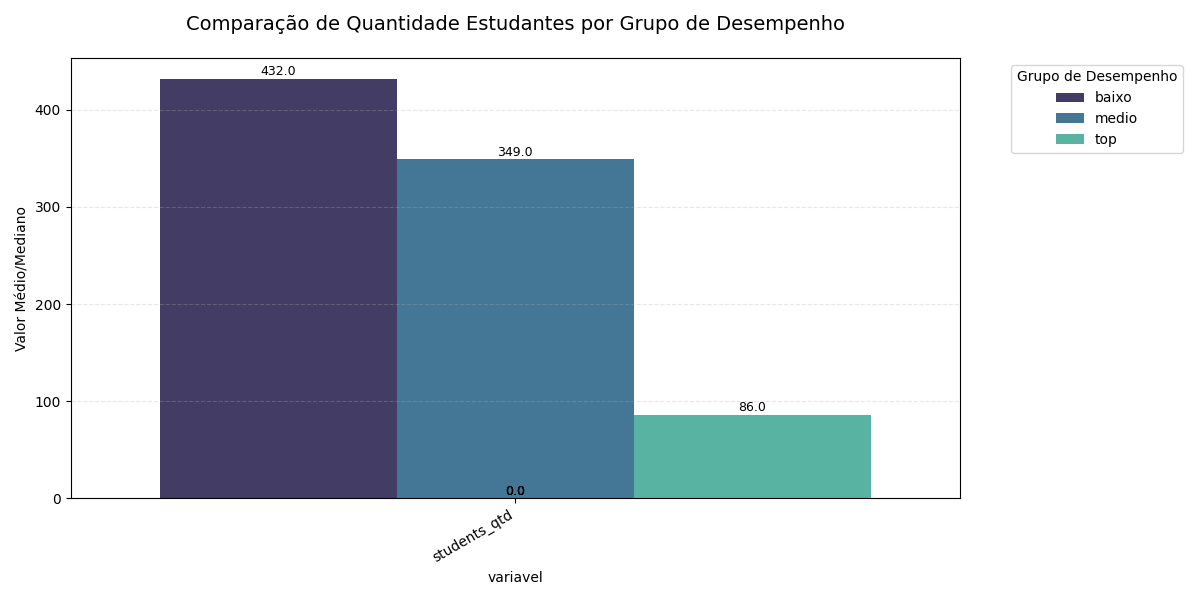
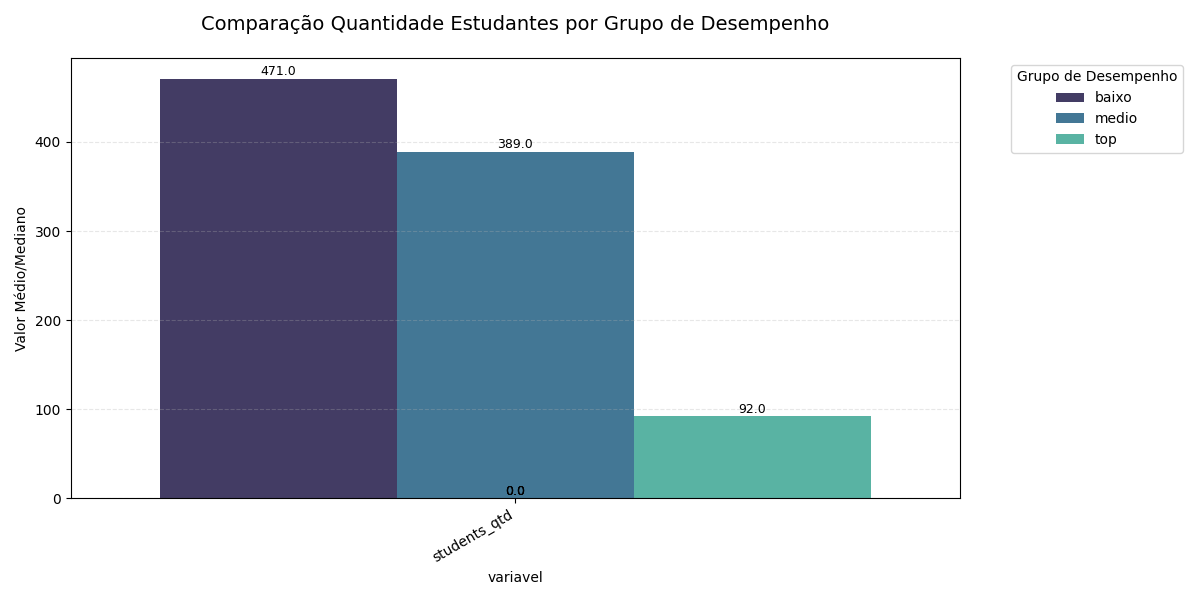
Atualizando a main com funções e gerando gráficos

diff --git a/main.py b/main.py
@@ -1,4 +1,3 @@
-
 import bib.processamento as p
 import bib.visualizacao as v
 import pandas as pd
@@ -33,16 +32,55 @@ if dados is not None:
 
     print(f"\nTIPOS DE DADOS:\n{dados.dtypes}")
 
+    # gráficos de barras: mude o 'group_column' para a coluna que deseja analisar e modifique o título
+    v.plot_bar_chart( 
+    dados,
+    group_column="age",
+    #encoder=encoders[""],  # coloque apenas para os dados categóricos, deixe comentado caso o group_column não seja um dado categórico
+    # colors=["red", "blue", "purple"], # define as cores de acordo com a quantidade de colunas, caso contrário as cores serão aleatórias
+    title="Estudante x Idade"
+    )
+
+    # histogramas: mude 'group_column' para a coluna que deseja analisar e modifique o título
+    v.plot_histogram(dados, column="exam_score", title="Nota Exame") 
+
+    # gráficos de pizza: mude o 'group_column' para a coluna que deseja analisar e modifique o título
+    v.plot_pie(
+        data=dados,
+        column="part_time_job",
+        encoder_dict=encoders, # coloque apenas para os dados categóricos, deixe comentado caso o group_column não seja um dado categórico
+        title="Trabalha Meio Período", 
+        colors=["red","blue"] # define as cores de acordo com a quantidade de valores
+    )
+
+    # gráficos de correlação: mude o eixos de acordo com as colunas que deseja analisar a correlação e modifique o título
+    v.plot_scatter(
+        dados, 
+        x_col="exam_score", # eixo x
+        y_col="extracurricular_participation", # eixo y
+        title="Correlacao Atividades Extracurriculares"
+    )
+
+    # gráficos de boxplot: mude o eixos de acordo com as colunas que deseja analisar e modifique o título
+    v.plot_boxplot(
+        data=dados,
+        x_col="extracurricular_participation", # eixo x
+        y_col="exam_score",                    #eixo y
+        title="Participação Extracurricular", # coloque apenas para os dados categóricos, deixe comentado caso o group_column não seja um dado categórico
+        encoder=encoders["extracurricular_participation"]
+    )
+
+    # Dividindo os estudantes em grupos
     bins = [0, 69, 89, 100] 
-    labels = ['baixo', 'medio', 'top']
+    labels = ['baixo', 'medio', 'top'] # Grupos de Desempenho
 
     dados['grupo_desempenho'] = pd.cut(
         dados['exam_score'],
         bins=bins,
         labels=labels,
         right=False
-    )
-    comparacao = dados.groupby('grupo_desempenho').agg(
+    ) 
+    comparacao = dados.groupby('grupo_desempenho').agg( # agrupando os grupos, para cada varriável, usando a média ou mediana
         exam_score_mean=('exam_score', 'mean'),
         students_qtd=('exam_score', 'count'),
         study_hours_per_day_mean=('study_hours_per_day', 'mean'),
@@ -57,43 +95,11 @@ if dados is not None:
 
     v.plot_comparativo_grupos(
         comparacao=comparacao,
-        variaveis=['sleep_hours_mean'],
-        title="Comparação de Hora de Sono por Grupo de Desempenho",
+        variaveis=['exam_score_mean'],  # mude aqui a variável que deseja comparar com o Grupo de Desempenho
+        title="Comparação Nota por Grupo de Desempenho",
         palette="mako", 
         rotacao_x=30
     )
-    v.plot_bar_chart(
-    dados,
-    group_column="gender",
-    encoder=encoders["gender"],
-    colors=["red", "blue", "purple"],
-    title="Estudante x Gênero"
-    )
-   
-    # v.plot_histogram(dados, column="exam_score", title="Nota Exame")
-
-    # v.plot_pie(
-    #     data=dados,
-    #     column="internet_quality",
-    #     encoder_dict=encoders,
-    #     title="Qualidade da Internet",
-    #     colors=["blue","green","red"]
-    # )
-
-    # v.plot_scatter(
-    # dados, 
-    # "exam_score", 
-    # "extracurricular_participation",
-    # title="Horas de Estudo vs "
-    # )
-
-    # v.plot_boxplot(
-    #     data=dados,
-    #     x_col="extracurricular_participation",
-    #     y_col="exam_score",
-    #     title="Participação Extracurricular",
-    #     encoder=encoders["extracurricular_participation"]
-    # )
 
     media_geral = dados_transformados['exam_score'].mean()
 
@@ -191,31 +197,6 @@ if dados is not None:
     title="Estudante x Gênero"
     )
    
-    v.plot_histogram(dados, column="sleep_hours", title="Horas de Sono")
-
-    v.plot_pie(
-        data=dados,
-        column="diet_quality",
-        encoder_dict=encoders,
-        title="Qualidade da Dieta",
-        colors=["blue","green","red"]
-    )
-
-    v.plot_scatter(
-    dados, 
-    "study_hours_per_day", 
-    "exam_score",
-    title="Notas vs Horas de Estudo"
-    )
-
-    v.plot_boxplot(
-        data=dados,
-        x_col="parental_education_level",
-        y_col="exam_score",
-        title="Notas por Nível Educacional dos Pais",
-        encoder=encoders["parental_education_level"]
-    )
-
     v.plotar_grafico_barras_linha_genero(media_por_genero, media_geral)
 
     v.plotar_grafico_linha_frequencia(media_por_attendance, media_geral)

diff --git a/bib/visualizacao.py b/bib/visualizacao.py
@@ -254,47 +254,30 @@ def plot_comparativo_grupos(
     plt.show()
 
 def plotar_grafico_barras_linha_genero(media_por_genero, media_geral):
-    # Criação do Gráfico com Barras e Linha
     plt.figure(figsize=(10, 6))
 
-    # Criando o gráfico de barras para as médias por gênero
-    # Usamos apenas as 3 primeiras linhas do DataFrame media_por_genero
     bar_labels = ['Mulher', 'Homem', 'Indefinido']
-    bar_values = media_por_genero['exam_score'].tolist()[:-1]  # Excluindo a última linha que é 'Total'
-
+    bar_values = media_por_genero['exam_score'].tolist()[:-1] 
     bars = plt.bar(bar_labels, bar_values, color=['skyblue', 'lightcoral', 'lightgreen'])
 
-    # Adicionando a linha contínua para a média geral
-    # Vamos desenhar a linha através de todo o gráfico
     plt.axhline(y=media_geral, color='purple', linestyle='--', linewidth=2, label=f'Média Geral: {media_geral:.2f}')
-
-    # Adicionando rótulos e título
     plt.xlabel('Gênero', fontsize=12)
     plt.ylabel('Média da Nota', fontsize=12)
     plt.title('Média de Notas por Gênero e Média Geral', fontsize=14, fontweight='bold')
     plt.ylim(0, 100)
 
-    # Adicionando o valor exato da média em cima de cada barra
     for bar in bars:
         yval = bar.get_height()
         plt.text(bar.get_x() + bar.get_width()/2, yval + 0.1, round(yval, 2), ha='center', va='bottom', fontsize=10)
-
-    # Adicionando uma legenda para a linha da média geral
     plt.legend()
-
-    # Personalizando o grid
     plt.grid(axis='y', linestyle='--', alpha=0.7)
-
     plt.tight_layout()
     plt.show()
 
 def plotar_grafico_linha_frequencia(media_por_attendance, media_geral):
-    # Criação do Gráfico de Linha para Frequência de Presença
     plt.figure(figsize=(10, 6))
-
-    # Criando o gráfico de linha para as médias por frequência de presença
     line_labels = media_por_attendance['attendance_percentage'].tolist()[:-1]
-    line_values = media_por_attendance['exam_score'].tolist()[:-1]  # Excluindo a última linha que é 'Total'
+    line_values = media_por_attendance['exam_score'].tolist()[:-1]  
     plt.plot(line_labels, line_values, marker='o', color='blue', label='Média por Frequência')
     plt.axhline(y=media_geral, color='purple', linestyle='--', linewidth=2, label=f'Média Geral: {media_geral:.2f}')
     plt.xlabel('Frequência de Presença (%)', fontsize=12)
@@ -308,10 +291,7 @@ def plotar_grafico_linha_frequencia(media_por_attendance, media_geral):
     plt.show()
 
 def plotar_grafico_linhas_study_hours(media_por_study_hours_per_day, media_geral):
-    # Criação do Gráfico de Linha para Horas de Estudo por Dia
     plt.figure(figsize=(10, 6))
-
-    # Criando o gráfico de linha para as médias por horas de estudo por dia
     line_labels = media_por_study_hours_per_day['study_hours_per_day'].tolist()[:-1]
     line_values = media_por_study_hours_per_day['exam_score'].tolist()[:-1]
     plt.plot(line_labels, line_values, marker='o', color='blue', label='Média por Horas de Estudo')
@@ -320,10 +300,10 @@ def plotar_grafico_linhas_study_hours(media_por_study_hours_per_day, media_geral
     plt.ylabel('Média da Nota', fontsize=12)
     plt.title('Média de Notas por Horas de Estudo por Dia e Média Geral', fontsize=14, fontweight='bold')
     plt.ylim(10, 110)
-    # Acrescenta mais marcações no eixo x
+
     min_x = int(min(line_labels))
     max_x = int(max(line_labels))
-    plt.xticks(range(min_x, max_x + 1), rotation=45)  # Marcações de 1 em 1 hora
+    plt.xticks(range(min_x, max_x + 1), rotation=45)  
     # plt.xticks()
     plt.legend()
     plt.grid(axis='y', linestyle='--', alpha=0.7)
